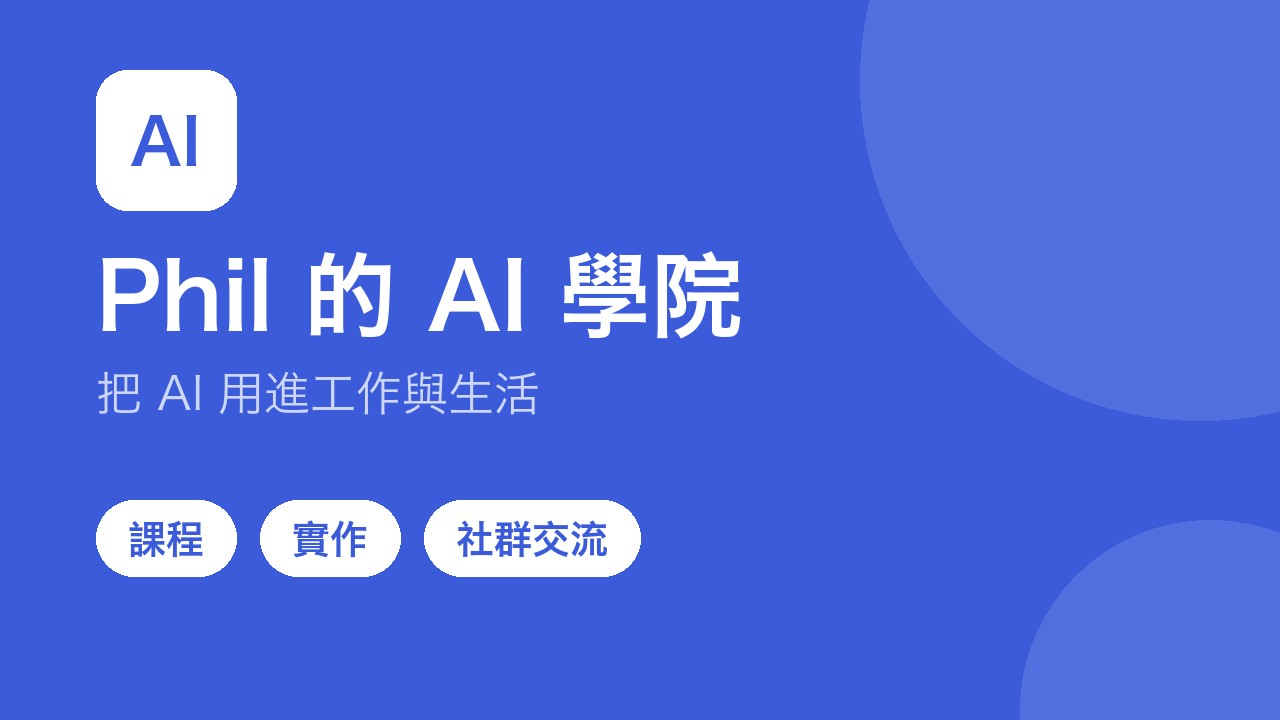
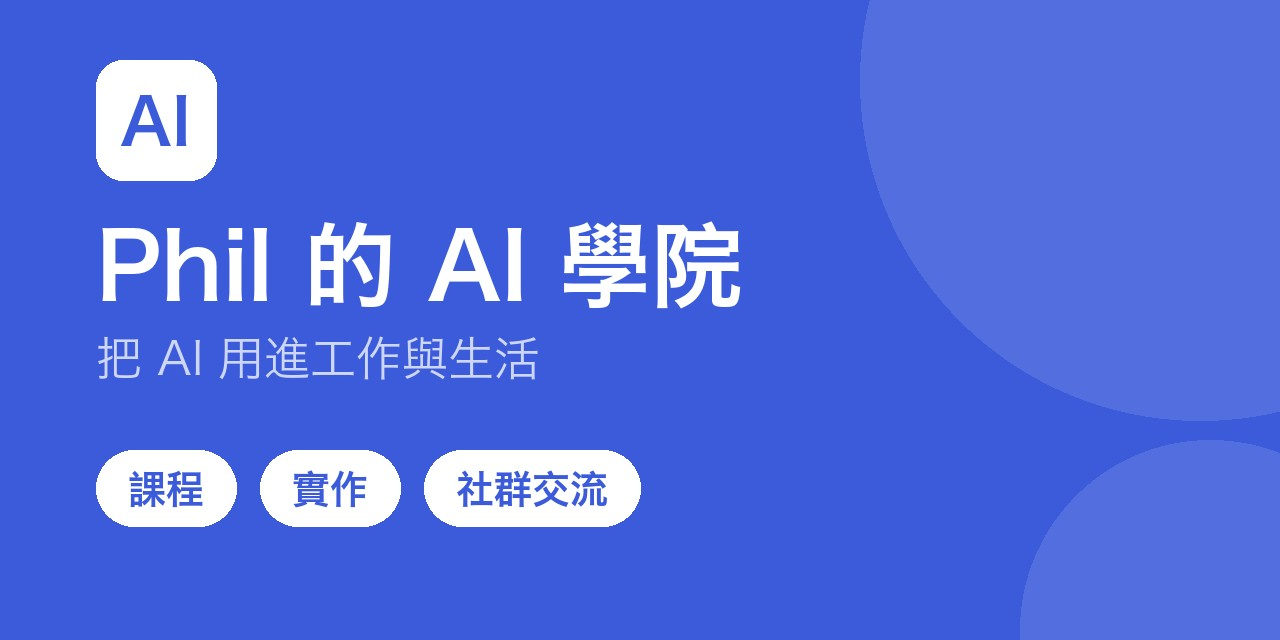
簡介頁圖片改成 2:1（LINE 這兩個欄位固定裁成 2:1）

diff --git a/tools/make_profile_images.py b/tools/make_profile_images.py
@@ -1,4 +1,4 @@
-"""會員通（LINE Member Kit）：產生官方帳號「商業簡介頁」用的圖（1280 × 720，16:9），輸出到 assets/profile/。
+"""會員通（LINE Member Kit）：產生官方帳號「商業簡介頁」用的圖（1280 × 640，2:1；LINE 這兩個欄位固定裁成 2:1），輸出到 assets/profile/。
 
 - intro.jpg：「學院介紹」區塊（自由填寫）的照片
 - notice.jpg：「最新資訊」公告的圖片
@@ -10,7 +10,7 @@ from PIL import Image, ImageDraw
 
 from make_richmenus import BRAND, FONT, FONT_REG, ROOT, font, hex_rgb, mix
 
-W, H = 1280, 720
+W, H = 1280, 640
 TEXT = {
     "name": "Phil 的 AI 學院",
     "tagline": "把 AI 用進工作與生活",
@@ -42,15 +42,15 @@ def mark(d, primary, x, y, r=70):
 def intro():
     img, d, primary = base()
     white, soft = (255, 255, 255), mix(primary, (255, 255, 255), 0.75)
-    mark(d, primary, 96, 70)
-    d.text((96, 330), TEXT["name"], font=font(FONT, 92), fill=white, anchor="ls")
-    d.text((96, 410), TEXT["tagline"], font=font(FONT_REG, 46), fill=soft, anchor="ls")
+    mark(d, primary, 96, 60, r=60)
+    d.text((96, 300), TEXT["name"], font=font(FONT, 92), fill=white, anchor="ls")
+    d.text((96, 375), TEXT["tagline"], font=font(FONT_REG, 46), fill=soft, anchor="ls")
     x = 96
     for p in TEXT["pillars"]:
         f = font(FONT, 38)
         w = d.textlength(p, font=f) + 64
-        d.rounded_rectangle([x, 500, x + w, 576], radius=38, fill=white)
-        d.text((x + w / 2, 538), p, font=f, fill=primary, anchor="mm")
+        d.rounded_rectangle([x, 450, x + w, 526], radius=38, fill=white)
+        d.text((x + w / 2, 488), p, font=f, fill=primary, anchor="mm")
         x += w + 24
     return img
 
@@ -58,17 +58,17 @@ def intro():
 def notice():
     img, d, primary = base()
     white, soft = (255, 255, 255), mix(primary, (255, 255, 255), 0.75)
-    mark(d, primary, 96, 80, r=50)
-    d.text((220, 130), TEXT["name"], font=font(FONT_REG, 40), fill=soft, anchor="lm")
-    d.text((96, 290), TEXT["welcome"], font=font(FONT, 110), fill=white, anchor="ls")
-    cw, gap, top = 340, 28, 370
+    mark(d, primary, 96, 56, r=44)
+    d.text((208, 100), TEXT["name"], font=font(FONT_REG, 38), fill=soft, anchor="lm")
+    d.text((96, 250), TEXT["welcome"], font=font(FONT, 100), fill=white, anchor="ls")
+    cw, gap, top = 340, 28, 310
     for i, (title, sub) in enumerate(TEXT["steps"]):
         x = 96 + i * (cw + gap)
-        d.rounded_rectangle([x, top, x + cw, top + 250], radius=28, fill=white)
+        d.rounded_rectangle([x, top, x + cw, top + 240], radius=28, fill=white)
         d.ellipse([x + 32, top + 32, x + 96, top + 96], fill=primary)
         d.text((x + 64, top + 64), str(i + 1), font=font(FONT, 38), fill=white, anchor="mm")
-        d.text((x + 32, top + 160), title, font=font(FONT, 46), fill=primary, anchor="ls")
-        d.text((x + 32, top + 212), sub, font=font(FONT_REG, 26), fill=mix(primary, (60, 64, 80), 0.6), anchor="ls")
+        d.text((x + 32, top + 155), title, font=font(FONT, 46), fill=primary, anchor="ls")
+        d.text((x + 32, top + 205), sub, font=font(FONT_REG, 26), fill=mix(primary, (60, 64, 80), 0.6), anchor="ls")
     return img
 
 
